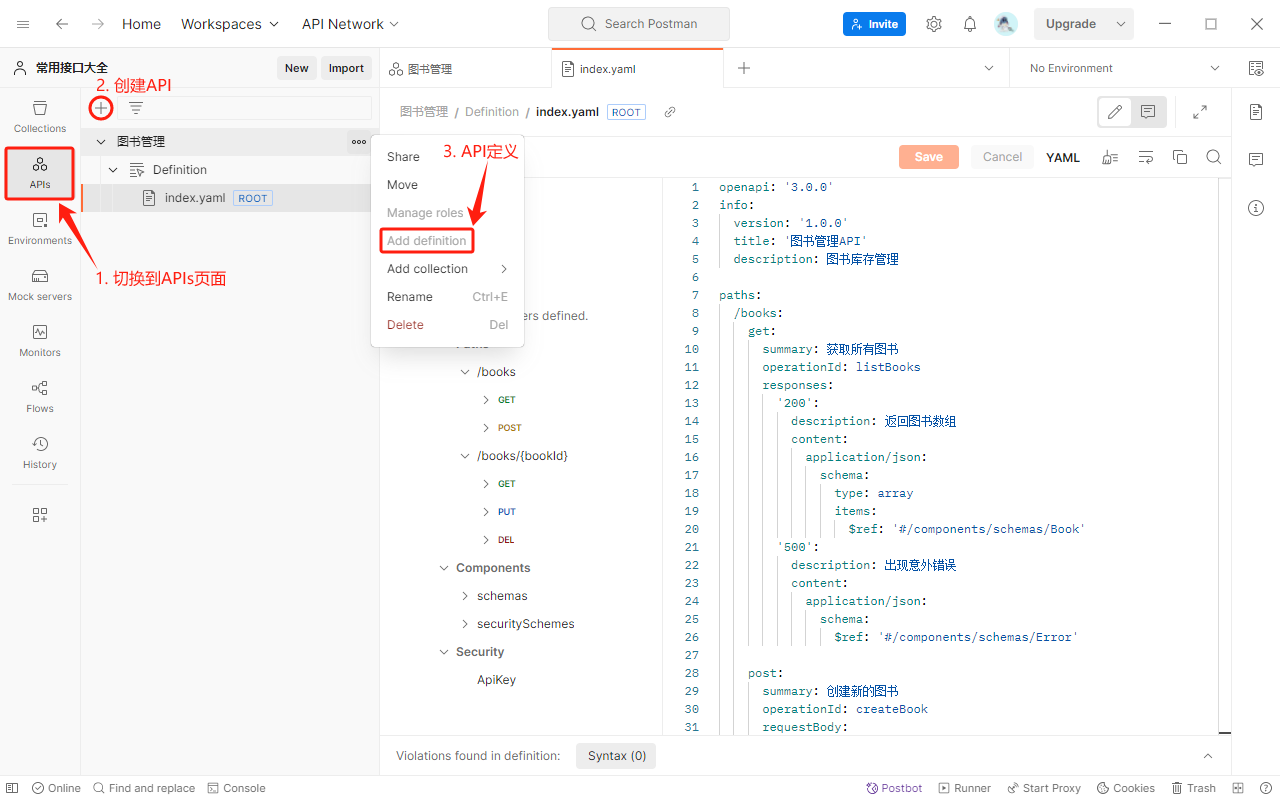
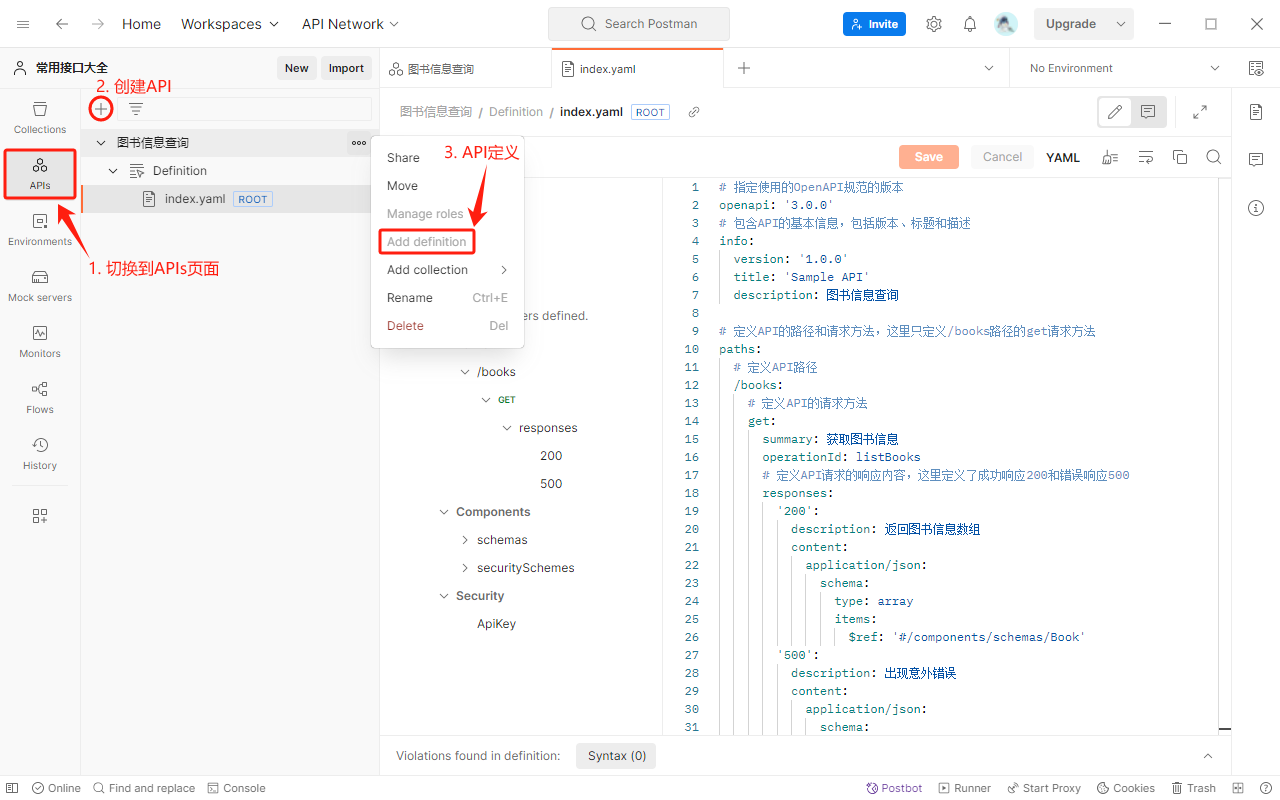
Site updated: 2024-01-16 00:08:46

diff --git a/2022/07/21/ce-shi-gong-ju/tt04-postman/index.html b/2022/07/21/ce-shi-gong-ju/tt04-postman/index.html
@@ -27,7 +27,7 @@
 <meta property="og:locale" content="zh_CN">
 <meta property="og:image" content="https://stitch-top.github.io/img/ThemeMap/1254263210.jpg">
 <meta property="article:published_time" content="2022-07-21T13:50:23.000Z">
-<meta property="article:modified_time" content="2024-01-03T16:23:57.921Z">
+<meta property="article:modified_time" content="2024-01-15T15:28:21.260Z">
 <meta property="article:author" content="Dr.626">
 <meta property="article:tag" content="Postman">
 <meta property="article:tag" content="Chrome扩展">
@@ -248,7 +248,7 @@
       <span class="post-meta mr-2">
         <i class="iconfont icon-chart"></i>
         
-          11k 字
+          8.9k 字
         
       </span>
     
@@ -259,7 +259,7 @@
         
         
         
-          93 分钟
+          75 分钟
         
       </span>
     
@@ -551,7 +551,7 @@
 <li>Mock服务不是一个真实的服务，而是一个被伪装成真实服务的假服务。</li>
 </ul>
 </li>
-<li>Postman可以创建两种类型的Mock服务<ul>
+<li>Mock服务的两种类型<ul>
 <li>私有Mock<ul>
 <li>头像&gt;Settings&gt;API keys&gt;Generate API Key&gt;命名为<code>x-api-key</code>&gt;复制生成的密钥。</li>
 <li>在Postman的Mock servers中，创建Mock服务，配置中勾选<u>Make mock server private</u>。</li>
@@ -585,32 +585,31 @@
 </ul>
 </li>
 </ul>
-<p><img src="/../img/Postman/Postman@014.jpg" srcset="/img/load.gif" lazyload alt="设计开发API"></p>
-<h2 id="6-1-定义API"><a href="#6-1-定义API" class="headerlink" title="6-1 定义API"></a>6-1 定义API</h2><figure class="highlight yaml"><table><tr><td class="gutter"><pre><span class="line">1</span><br><span class="line">2</span><br><span class="line">3</span><br><span class="line">4</span><br><span class="line">5</span><br><span class="line">6</span><br><span class="line">7</span><br><span class="line">8</span><br><span class="line">9</span><br><span class="line">10</span><br><span class="line">11</span><br><span class="line">12</span><br><span class="line">13</span><br><span class="line">14</span><br><span class="line">15</span><br><span class="line">16</span><br><span class="line">17</span><br><span class="line">18</span><br><span class="line">19</span><br><span class="line">20</span><br><span class="line">21</span><br><span class="line">22</span><br><span class="line">23</span><br><span class="line">24</span><br><span class="line">25</span><br><span class="line">26</span><br><span class="line">27</span><br><span class="line">28</span><br><span class="line">29</span><br><span class="line">30</span><br><span class="line">31</span><br><span class="line">32</span><br><span class="line">33</span><br><span class="line">34</span><br><span class="line">35</span><br><span class="line">36</span><br><span class="line">37</span><br><span class="line">38</span><br><span class="line">39</span><br><span class="line">40</span><br><span class="line">41</span><br><span class="line">42</span><br><span class="line">43</span><br><span class="line">44</span><br><span class="line">45</span><br><span class="line">46</span><br><span class="line">47</span><br><span class="line">48</span><br><span class="line">49</span><br><span class="line">50</span><br><span class="line">51</span><br><span class="line">52</span><br><span class="line">53</span><br><span class="line">54</span><br><span class="line">55</span><br><span class="line">56</span><br><span class="line">57</span><br><span class="line">58</span><br><span class="line">59</span><br><span class="line">60</span><br><span class="line">61</span><br><span class="line">62</span><br><span class="line">63</span><br><span class="line">64</span><br><span class="line">65</span><br><span class="line">66</span><br><span class="line">67</span><br><span class="line">68</span><br><span class="line">69</span><br><span class="line">70</span><br><span class="line">71</span><br><span class="line">72</span><br><span class="line">73</span><br><span class="line">74</span><br><span class="line">75</span><br><span class="line">76</span><br><span class="line">77</span><br><span class="line">78</span><br><span class="line">79</span><br><span class="line">80</span><br><span class="line">81</span><br><span class="line">82</span><br><span class="line">83</span><br><span class="line">84</span><br><span class="line">85</span><br><span class="line">86</span><br><span class="line">87</span><br><span class="line">88</span><br><span class="line">89</span><br><span class="line">90</span><br><span class="line">91</span><br><span class="line">92</span><br><span class="line">93</span><br><span class="line">94</span><br><span class="line">95</span><br><span class="line">96</span><br><span class="line">97</span><br><span class="line">98</span><br><span class="line">99</span><br><span class="line">100</span><br><span class="line">101</span><br><span class="line">102</span><br><span class="line">103</span><br><span class="line">104</span><br><span class="line">105</span><br><span class="line">106</span><br><span class="line">107</span><br><span class="line">108</span><br><span class="line">109</span><br><span class="line">110</span><br><span class="line">111</span><br><span class="line">112</span><br><span class="line">113</span><br><span class="line">114</span><br><span class="line">115</span><br><span class="line">116</span><br><span class="line">117</span><br><span class="line">118</span><br><span class="line">119</span><br><span class="line">120</span><br><span class="line">121</span><br><span class="line">122</span><br><span class="line">123</span><br><span class="line">124</span><br><span class="line">125</span><br><span class="line">126</span><br><span class="line">127</span><br><span class="line">128</span><br><span class="line">129</span><br><span class="line">130</span><br><span class="line">131</span><br><span class="line">132</span><br><span class="line">133</span><br><span class="line">134</span><br><span class="line">135</span><br><span class="line">136</span><br><span class="line">137</span><br><span class="line">138</span><br><span class="line">139</span><br><span class="line">140</span><br><span class="line">141</span><br><span class="line">142</span><br><span class="line">143</span><br><span class="line">144</span><br><span class="line">145</span><br><span class="line">146</span><br><span class="line">147</span><br><span class="line">148</span><br><span class="line">149</span><br><span class="line">150</span><br><span class="line">151</span><br><span class="line">152</span><br><span class="line">153</span><br><span class="line">154</span><br><span class="line">155</span><br><span class="line">156</span><br><span class="line">157</span><br><span class="line">158</span><br><span class="line">159</span><br><span class="line">160</span><br><span class="line">161</span><br><span class="line">162</span><br><span class="line">163</span><br><span class="line">164</span><br><span class="line">165</span><br><span class="line">166</span><br><span class="line">167</span><br><span class="line">168</span><br><span class="line">169</span><br><span class="line">170</span><br><span class="line">171</span><br><span class="line">172</span><br><span class="line">173</span><br><span class="line">174</span><br><span class="line">175</span><br><span class="line">176</span><br><span class="line">177</span><br><span class="line">178</span><br><span class="line">179</span><br><span class="line">180</span><br><span class="line">181</span><br><span class="line">182</span><br><span class="line">183</span><br><span class="line">184</span><br><span class="line">185</span><br><span class="line">186</span><br><span class="line">187</span><br><span class="line">188</span><br><span class="line">189</span><br><span class="line">190</span><br><span class="line">191</span><br><span class="line">192</span><br><span class="line">193</span><br><span class="line">194</span><br><span class="line">195</span><br><span class="line">196</span><br><span class="line">197</span><br><span class="line">198</span><br><span class="line">199</span><br><span class="line">200</span><br><span class="line">201</span><br><span class="line">202</span><br><span class="line">203</span><br><span class="line">204</span><br><span class="line">205</span><br><span class="line">206</span><br><span class="line">207</span><br><span class="line">208</span><br><span class="line">209</span><br><span class="line">210</span><br><span class="line">211</span><br><span class="line">212</span><br><span class="line">213</span><br><span class="line">214</span><br><span class="line">215</span><br><span class="line">216</span><br><span class="line">217</span><br><span class="line">218</span><br><span class="line">219</span><br><span class="line">220</span><br></pre></td><td class="code"><pre><code class="hljs yaml"><span class="hljs-attr">openapi:</span> <span class="hljs-string">&#x27;3.0.0&#x27;</span><br><span class="hljs-attr">info:</span><br>  <span class="hljs-attr">version:</span> <span class="hljs-string">&#x27;1.0.0&#x27;</span><br>  <span class="hljs-attr">title:</span> <span class="hljs-string">&#x27;图书管理API&#x27;</span><br>  <span class="hljs-attr">description:</span> <span class="hljs-string">图书库存管理</span><br><br><span class="hljs-attr">paths:</span><br>  <span class="hljs-comment"># 定义接口路径</span><br>  <span class="hljs-string">/books:</span><br>    <span class="hljs-comment"># 定义接口的请求方法</span><br>    <span class="hljs-attr">get:</span><br>      <span class="hljs-attr">summary:</span> <span class="hljs-string">获取所有图书</span><br>      <span class="hljs-attr">operationId:</span> <span class="hljs-string">listBooks</span><br>      <span class="hljs-comment"># 定义接口请求的响应内容</span><br>      <span class="hljs-attr">responses:</span><br>        <span class="hljs-attr">&#x27;200&#x27;:</span><br>          <span class="hljs-attr">description:</span> <span class="hljs-string">返回图书数组</span><br>          <span class="hljs-attr">content:</span><br>            <span class="hljs-attr">application/json:</span><br>              <span class="hljs-attr">schema:</span><br>                <span class="hljs-attr">type:</span> <span class="hljs-string">array</span><br>                <span class="hljs-attr">items:</span><br>                  <span class="hljs-string">$ref:</span> <span class="hljs-string">&#x27;#/components/schemas/Book&#x27;</span><br>        <span class="hljs-attr">&#x27;500&#x27;:</span><br>          <span class="hljs-attr">description:</span> <span class="hljs-string">出现意外错误</span><br>          <span class="hljs-attr">content:</span><br>            <span class="hljs-attr">application/json:</span><br>              <span class="hljs-attr">schema:</span><br>                <span class="hljs-string">$ref:</span> <span class="hljs-string">&#x27;#/components/schemas/Error&#x27;</span><br><br>    <span class="hljs-attr">post:</span><br>      <span class="hljs-attr">summary:</span> <span class="hljs-string">创建新的图书</span><br>      <span class="hljs-attr">operationId:</span> <span class="hljs-string">createBook</span><br>      <span class="hljs-attr">requestBody:</span><br>        <span class="hljs-attr">description:</span> <span class="hljs-string">待创建的图书信息</span><br>        <span class="hljs-attr">required:</span> <span class="hljs-literal">true</span><br>        <span class="hljs-attr">content:</span><br>          <span class="hljs-attr">application/json:</span><br>            <span class="hljs-attr">schema:</span><br>              <span class="hljs-string">$ref:</span> <span class="hljs-string">&#x27;#/components/schemas/NewBook&#x27;</span><br>      <span class="hljs-attr">responses:</span><br>        <span class="hljs-attr">&#x27;201&#x27;:</span><br>          <span class="hljs-attr">description:</span> <span class="hljs-string">图书创建成功</span><br>          <span class="hljs-attr">content:</span><br>            <span class="hljs-attr">application/json:</span><br>              <span class="hljs-attr">schema:</span><br>                <span class="hljs-string">$ref:</span> <span class="hljs-string">&#x27;#/components/schemas/Book&#x27;</span><br>        <span class="hljs-attr">&#x27;400&#x27;:</span><br>          <span class="hljs-attr">description:</span> <span class="hljs-string">输入无效</span><br>          <span class="hljs-attr">content:</span><br>            <span class="hljs-attr">application/json:</span><br>              <span class="hljs-attr">schema:</span><br>                <span class="hljs-string">$ref:</span> <span class="hljs-string">&#x27;#/components/schemas/Error&#x27;</span><br>        <span class="hljs-attr">&#x27;500&#x27;:</span><br>          <span class="hljs-attr">description:</span> <span class="hljs-string">出现意外错误</span><br>          <span class="hljs-attr">content:</span><br>            <span class="hljs-attr">application/json:</span><br>              <span class="hljs-attr">schema:</span><br>                <span class="hljs-string">$ref:</span> <span class="hljs-string">&#x27;#/components/schemas/Error&#x27;</span><br><br>  <span class="hljs-string">/books/&#123;bookId&#125;:</span><br>    <span class="hljs-attr">parameters:</span><br>      <span class="hljs-bullet">-</span> <span class="hljs-attr">name:</span> <span class="hljs-string">bookId</span><br>        <span class="hljs-attr">in:</span> <span class="hljs-string">path</span><br>        <span class="hljs-attr">required:</span> <span class="hljs-literal">true</span><br>        <span class="hljs-attr">description:</span> <span class="hljs-string">图书的唯一标识符</span><br>        <span class="hljs-attr">schema:</span><br>          <span class="hljs-attr">type:</span> <span class="hljs-string">string</span><br><br>    <span class="hljs-attr">get:</span><br>      <span class="hljs-attr">summary:</span> <span class="hljs-string">根据ID获取图书详情</span><br>      <span class="hljs-attr">operationId:</span> <span class="hljs-string">readBook</span><br>      <span class="hljs-attr">responses:</span><br>        <span class="hljs-attr">&#x27;200&#x27;:</span><br>          <span class="hljs-attr">description:</span> <span class="hljs-string">返回图书详情</span><br>          <span class="hljs-attr">content:</span><br>            <span class="hljs-attr">application/json:</span><br>              <span class="hljs-attr">schema:</span><br>                <span class="hljs-string">$ref:</span> <span class="hljs-string">&#x27;#/components/schemas/Book&#x27;</span><br>        <span class="hljs-attr">&#x27;404&#x27;:</span><br>          <span class="hljs-attr">description:</span> <span class="hljs-string">未找到图书</span><br>          <span class="hljs-attr">content:</span><br>            <span class="hljs-attr">application/json:</span><br>              <span class="hljs-attr">schema:</span><br>                <span class="hljs-string">$ref:</span> <span class="hljs-string">&#x27;#/components/schemas/Error&#x27;</span><br>        <span class="hljs-attr">&#x27;500&#x27;:</span><br>          <span class="hljs-attr">description:</span> <span class="hljs-string">出现意外错误</span><br>          <span class="hljs-attr">content:</span><br>            <span class="hljs-attr">application/json:</span><br>              <span class="hljs-attr">schema:</span><br>                <span class="hljs-string">$ref:</span> <span class="hljs-string">&#x27;#/components/schemas/Error&#x27;</span><br><br>    <span class="hljs-attr">put:</span><br>      <span class="hljs-attr">summary:</span> <span class="hljs-string">根据ID更新图书信息</span><br>      <span class="hljs-attr">operationId:</span> <span class="hljs-string">updateBook</span><br>      <span class="hljs-attr">requestBody:</span><br>        <span class="hljs-attr">description:</span> <span class="hljs-string">更新后的图书信息</span><br>        <span class="hljs-attr">required:</span> <span class="hljs-literal">true</span><br>        <span class="hljs-attr">content:</span><br>          <span class="hljs-attr">application/json:</span><br>            <span class="hljs-attr">schema:</span><br>              <span class="hljs-string">$ref:</span> <span class="hljs-string">&#x27;#/components/schemas/NewBook&#x27;</span><br>      <span class="hljs-attr">responses:</span><br>        <span class="hljs-attr">&#x27;200&#x27;:</span><br>          <span class="hljs-attr">description:</span> <span class="hljs-string">图书信息更新成功</span><br>          <span class="hljs-attr">content:</span><br>            <span class="hljs-attr">application/json:</span><br>              <span class="hljs-attr">schema:</span><br>                <span class="hljs-string">$ref:</span> <span class="hljs-string">&#x27;#/components/schemas/Book&#x27;</span><br>        <span class="hljs-attr">&#x27;400&#x27;:</span><br>          <span class="hljs-attr">description:</span> <span class="hljs-string">输入无效</span><br>          <span class="hljs-attr">content:</span><br>            <span class="hljs-attr">application/json:</span><br>              <span class="hljs-attr">schema:</span><br>                <span class="hljs-string">$ref:</span> <span class="hljs-string">&#x27;#/components/schemas/Error&#x27;</span><br>        <span class="hljs-attr">&#x27;404&#x27;:</span><br>          <span class="hljs-attr">description:</span> <span class="hljs-string">未找到图书</span><br>          <span class="hljs-attr">content:</span><br>            <span class="hljs-attr">application/json:</span><br>              <span class="hljs-attr">schema:</span><br>                <span class="hljs-string">$ref:</span> <span class="hljs-string">&#x27;#/components/schemas/Error&#x27;</span><br>        <span class="hljs-attr">&#x27;500&#x27;:</span><br>          <span class="hljs-attr">description:</span> <span class="hljs-string">出现意外错误</span><br>          <span class="hljs-attr">content:</span><br>            <span class="hljs-attr">application/json:</span><br>              <span class="hljs-attr">schema:</span><br>                <span class="hljs-string">$ref:</span> <span class="hljs-string">&#x27;#/components/schemas/Error&#x27;</span><br>    <br>    <span class="hljs-attr">delete:</span><br>      <span class="hljs-attr">summary:</span> <span class="hljs-string">根据ID删除图书</span><br>      <span class="hljs-attr">operationId:</span> <span class="hljs-string">deleteBook</span><br>      <span class="hljs-attr">responses:</span><br>        <span class="hljs-attr">&#x27;204&#x27;:</span><br>          <span class="hljs-attr">description:</span> <span class="hljs-string">图书删除成功</span><br>        <span class="hljs-attr">&#x27;404&#x27;:</span><br>          <span class="hljs-attr">description:</span> <span class="hljs-string">未找到图书</span><br>          <span class="hljs-attr">content:</span><br>            <span class="hljs-attr">application/json:</span><br>              <span class="hljs-attr">schema:</span><br>                <span class="hljs-string">$ref:</span> <span class="hljs-string">&#x27;#/components/schemas/Error&#x27;</span><br>        <span class="hljs-attr">&#x27;500&#x27;:</span><br>          <span class="hljs-attr">description:</span> <span class="hljs-string">出现意外错误</span><br>          <span class="hljs-attr">content:</span><br>            <span class="hljs-attr">application/json:</span><br>              <span class="hljs-attr">schema:</span><br>                <span class="hljs-string">$ref:</span> <span class="hljs-string">&#x27;#/components/schemas/Error&#x27;</span><br><br><span class="hljs-attr">components:</span><br>  <span class="hljs-attr">schemas:</span><br>    <span class="hljs-attr">Book:</span><br>      <span class="hljs-comment"># 数据模型的类型</span><br>      <span class="hljs-attr">type:</span> <span class="hljs-string">object</span><br>      <span class="hljs-comment"># 指定数据模型中的必填属性</span><br>      <span class="hljs-attr">required:</span><br>        <span class="hljs-bullet">-</span> <span class="hljs-string">id</span><br>        <span class="hljs-bullet">-</span> <span class="hljs-string">title</span><br>        <span class="hljs-bullet">-</span> <span class="hljs-string">author</span><br>        <span class="hljs-bullet">-</span> <span class="hljs-string">isbn</span><br>        <span class="hljs-bullet">-</span> <span class="hljs-string">price</span><br>      <span class="hljs-comment"># 定义数据模型中的属性</span><br>      <span class="hljs-attr">properties:</span><br>        <span class="hljs-attr">id:</span><br>          <span class="hljs-comment"># 指定属性的数据类型</span><br>          <span class="hljs-attr">type:</span> <span class="hljs-string">string</span><br>          <span class="hljs-comment"># 提供属性的描述信息</span><br>          <span class="hljs-attr">description:</span> <span class="hljs-string">图书的唯一标识符</span><br>        <span class="hljs-attr">title:</span><br>          <span class="hljs-attr">type:</span> <span class="hljs-string">string</span><br>          <span class="hljs-attr">description:</span> <span class="hljs-string">图书标题</span><br>        <span class="hljs-attr">author:</span><br>          <span class="hljs-attr">type:</span> <span class="hljs-string">string</span><br>          <span class="hljs-attr">description:</span> <span class="hljs-string">图书作者</span><br>        <span class="hljs-attr">isbn:</span><br>          <span class="hljs-attr">type:</span> <span class="hljs-string">string</span><br>          <span class="hljs-attr">description:</span> <span class="hljs-string">图书ISBN</span><br>        <span class="hljs-attr">price:</span><br>          <span class="hljs-attr">type:</span> <span class="hljs-string">number</span><br>          <span class="hljs-attr">format:</span> <span class="hljs-string">float</span><br>          <span class="hljs-attr">description:</span> <span class="hljs-string">图书价格</span><br>        <span class="hljs-attr">description:</span><br>          <span class="hljs-attr">type:</span> <span class="hljs-string">string</span><br>          <span class="hljs-attr">description:</span> <span class="hljs-string">图书简介</span><br>          <br>    <span class="hljs-attr">NewBook:</span><br>      <span class="hljs-attr">type:</span> <span class="hljs-string">object</span><br>      <span class="hljs-attr">required:</span><br>        <span class="hljs-bullet">-</span> <span class="hljs-string">title</span><br>        <span class="hljs-bullet">-</span> <span class="hljs-string">author</span><br>        <span class="hljs-bullet">-</span> <span class="hljs-string">isbn</span><br>        <span class="hljs-bullet">-</span> <span class="hljs-string">price</span><br>      <span class="hljs-attr">properties:</span><br>        <span class="hljs-attr">title:</span><br>          <span class="hljs-attr">type:</span> <span class="hljs-string">string</span><br>        <span class="hljs-attr">author:</span><br>          <span class="hljs-attr">type:</span> <span class="hljs-string">string</span><br>        <span class="hljs-attr">isbn:</span><br>          <span class="hljs-attr">type:</span> <span class="hljs-string">string</span><br>        <span class="hljs-attr">price:</span><br>          <span class="hljs-attr">type:</span> <span class="hljs-string">number</span><br>          <span class="hljs-attr">format:</span> <span class="hljs-string">float</span><br>        <span class="hljs-attr">description:</span><br>          <span class="hljs-attr">type:</span> <span class="hljs-string">string</span><br><br>    <span class="hljs-attr">Error:</span><br>      <span class="hljs-attr">type:</span> <span class="hljs-string">object</span><br>      <span class="hljs-attr">required:</span><br>        <span class="hljs-bullet">-</span> <span class="hljs-string">message</span><br>      <span class="hljs-attr">properties:</span><br>        <span class="hljs-attr">message:</span><br>          <span class="hljs-attr">type:</span> <span class="hljs-string">string</span><br>          <span class="hljs-attr">description:</span> <span class="hljs-string">可读的错误信息</span><br><br>  <span class="hljs-attr">securitySchemes:</span><br>    <span class="hljs-attr">ApiKey:</span><br>      <span class="hljs-attr">type:</span> <span class="hljs-string">apiKey</span><br>      <span class="hljs-attr">in:</span> <span class="hljs-string">header</span><br>      <span class="hljs-attr">name:</span> <span class="hljs-string">X-Api-Key</span><br><br><span class="hljs-attr">security:</span><br>  <span class="hljs-bullet">-</span> <span class="hljs-attr">ApiKey:</span> []<br></code></pre></td></tr></table></figure>
+<h2 id="6-1-创建API"><a href="#6-1-创建API" class="headerlink" title="6-1 创建API"></a>6-1 创建API</h2><p><img src="/../img/Postman/Postman@014.jpg" srcset="/img/load.gif" lazyload alt="设计开发API-创建API"></p>
+<h2 id="6-2-定义API"><a href="#6-2-定义API" class="headerlink" title="6-2 定义API"></a>6-2 定义API</h2><figure class="highlight yaml"><table><tr><td class="gutter"><pre><span class="line">1</span><br><span class="line">2</span><br><span class="line">3</span><br><span class="line">4</span><br><span class="line">5</span><br><span class="line">6</span><br><span class="line">7</span><br><span class="line">8</span><br><span class="line">9</span><br><span class="line">10</span><br><span class="line">11</span><br><span class="line">12</span><br><span class="line">13</span><br><span class="line">14</span><br><span class="line">15</span><br><span class="line">16</span><br><span class="line">17</span><br><span class="line">18</span><br><span class="line">19</span><br><span class="line">20</span><br><span class="line">21</span><br><span class="line">22</span><br><span class="line">23</span><br><span class="line">24</span><br><span class="line">25</span><br><span class="line">26</span><br><span class="line">27</span><br><span class="line">28</span><br><span class="line">29</span><br><span class="line">30</span><br><span class="line">31</span><br><span class="line">32</span><br><span class="line">33</span><br><span class="line">34</span><br><span class="line">35</span><br><span class="line">36</span><br><span class="line">37</span><br><span class="line">38</span><br><span class="line">39</span><br><span class="line">40</span><br><span class="line">41</span><br><span class="line">42</span><br><span class="line">43</span><br><span class="line">44</span><br><span class="line">45</span><br><span class="line">46</span><br><span class="line">47</span><br><span class="line">48</span><br><span class="line">49</span><br><span class="line">50</span><br><span class="line">51</span><br><span class="line">52</span><br><span class="line">53</span><br><span class="line">54</span><br><span class="line">55</span><br><span class="line">56</span><br><span class="line">57</span><br><span class="line">58</span><br><span class="line">59</span><br><span class="line">60</span><br><span class="line">61</span><br><span class="line">62</span><br><span class="line">63</span><br><span class="line">64</span><br><span class="line">65</span><br><span class="line">66</span><br><span class="line">67</span><br><span class="line">68</span><br><span class="line">69</span><br><span class="line">70</span><br><span class="line">71</span><br><span class="line">72</span><br><span class="line">73</span><br><span class="line">74</span><br><span class="line">75</span><br><span class="line">76</span><br><span class="line">77</span><br><span class="line">78</span><br><span class="line">79</span><br><span class="line">80</span><br><span class="line">81</span><br><span class="line">82</span><br><span class="line">83</span><br><span class="line">84</span><br><span class="line">85</span><br><span class="line">86</span><br><span class="line">87</span><br></pre></td><td class="code"><pre><code class="hljs yaml"><span class="hljs-comment"># 指定使用的OpenAPI规范的版本</span><br><span class="hljs-attr">openapi:</span> <span class="hljs-string">&#x27;3.0.0&#x27;</span><br><span class="hljs-comment"># 包含API的基本信息，包括版本、标题和描述</span><br><span class="hljs-attr">info:</span><br>  <span class="hljs-attr">version:</span> <span class="hljs-string">&#x27;1.0.0&#x27;</span><br>  <span class="hljs-attr">title:</span> <span class="hljs-string">&#x27;Sample API&#x27;</span><br>  <span class="hljs-attr">description:</span> <span class="hljs-string">图书信息查询</span><br><br><span class="hljs-comment"># 定义API的路径和请求方法，这里只定义/books路径的get请求方法</span><br><span class="hljs-attr">paths:</span><br>  <span class="hljs-comment"># 定义API路径</span><br>  <span class="hljs-string">/books:</span><br>    <span class="hljs-comment"># 定义API的请求方法</span><br>    <span class="hljs-attr">get:</span><br>      <span class="hljs-attr">summary:</span> <span class="hljs-string">获取图书信息</span><br>      <span class="hljs-attr">operationId:</span> <span class="hljs-string">listBooks</span><br>      <span class="hljs-comment"># 定义API请求的响应内容，这里定义了成功响应200和错误响应500</span><br>      <span class="hljs-attr">responses:</span><br>        <span class="hljs-attr">&#x27;200&#x27;:</span><br>          <span class="hljs-attr">description:</span> <span class="hljs-string">返回图书信息数组</span><br>          <span class="hljs-attr">content:</span><br>            <span class="hljs-attr">application/json:</span><br>              <span class="hljs-attr">schema:</span><br>                <span class="hljs-attr">type:</span> <span class="hljs-string">array</span><br>                <span class="hljs-attr">items:</span><br>                  <span class="hljs-string">$ref:</span> <span class="hljs-string">&#x27;#/components/schemas/Book&#x27;</span><br>        <span class="hljs-attr">&#x27;500&#x27;:</span><br>          <span class="hljs-attr">description:</span> <span class="hljs-string">出现意外错误</span><br>          <span class="hljs-attr">content:</span><br>            <span class="hljs-attr">application/json:</span><br>              <span class="hljs-attr">schema:</span><br>                <span class="hljs-string">$ref:</span> <span class="hljs-string">&#x27;#/components/schemas/Error&#x27;</span><br><br><span class="hljs-comment"># 包含API的组件，包括数据模型Book和Error的定义</span><br><span class="hljs-attr">components:</span><br>  <span class="hljs-attr">schemas:</span><br>    <span class="hljs-attr">Book:</span><br>      <span class="hljs-comment"># 数据模型的类型</span><br>      <span class="hljs-attr">type:</span> <span class="hljs-string">object</span><br>      <span class="hljs-comment"># 指定数据模型中的必填属性</span><br>      <span class="hljs-attr">required:</span><br>        <span class="hljs-bullet">-</span> <span class="hljs-string">id</span><br>        <span class="hljs-bullet">-</span> <span class="hljs-string">title</span><br>        <span class="hljs-bullet">-</span> <span class="hljs-string">author</span><br>        <span class="hljs-bullet">-</span> <span class="hljs-string">isbn</span><br>        <span class="hljs-bullet">-</span> <span class="hljs-string">price</span><br>      <span class="hljs-comment"># 定义数据模型中的属性</span><br>      <span class="hljs-attr">properties:</span><br>        <span class="hljs-attr">id:</span><br>          <span class="hljs-comment"># 指定属性的数据类型</span><br>          <span class="hljs-attr">type:</span> <span class="hljs-string">string</span><br>          <span class="hljs-comment"># 提供属性的描述信息</span><br>          <span class="hljs-attr">description:</span> <span class="hljs-string">图书的唯一标识符</span><br>        <span class="hljs-attr">title:</span><br>          <span class="hljs-attr">type:</span> <span class="hljs-string">string</span><br>          <span class="hljs-attr">description:</span> <span class="hljs-string">图书标题</span><br>        <span class="hljs-attr">author:</span><br>          <span class="hljs-attr">type:</span> <span class="hljs-string">string</span><br>          <span class="hljs-attr">description:</span> <span class="hljs-string">图书作者</span><br>        <span class="hljs-attr">isbn:</span><br>          <span class="hljs-attr">type:</span> <span class="hljs-string">string</span><br>          <span class="hljs-attr">description:</span> <span class="hljs-string">图书ISBN</span><br>        <span class="hljs-attr">price:</span><br>          <span class="hljs-attr">type:</span> <span class="hljs-string">number</span><br>          <span class="hljs-attr">format:</span> <span class="hljs-string">float</span><br>          <span class="hljs-attr">description:</span> <span class="hljs-string">图书价格</span><br>        <span class="hljs-attr">description:</span><br>          <span class="hljs-attr">type:</span> <span class="hljs-string">string</span><br>          <span class="hljs-attr">description:</span> <span class="hljs-string">图书简介</span><br>    <span class="hljs-attr">Error:</span><br>      <span class="hljs-attr">type:</span> <span class="hljs-string">object</span><br>      <span class="hljs-attr">required:</span><br>        <span class="hljs-bullet">-</span> <span class="hljs-string">message</span><br>      <span class="hljs-attr">properties:</span><br>        <span class="hljs-attr">message:</span><br>          <span class="hljs-attr">description:</span> <span class="hljs-string">A</span> <span class="hljs-string">human</span> <span class="hljs-string">readable</span> <span class="hljs-string">error</span> <span class="hljs-string">message</span><br>          <span class="hljs-attr">type:</span> <span class="hljs-string">string</span><br>  <span class="hljs-comment"># 定义API的安全方案，包括一个名为ApiKey的API密钥认证方式</span><br>  <span class="hljs-attr">securitySchemes:</span><br>    <span class="hljs-attr">ApiKey:</span><br>      <span class="hljs-attr">type:</span> <span class="hljs-string">apiKey</span><br>      <span class="hljs-attr">in:</span> <span class="hljs-string">header</span><br>      <span class="hljs-attr">name:</span> <span class="hljs-string">X-Api-Key</span><br><br><span class="hljs-comment"># 定义API的安全要求，指定使用ApiKey认证方式</span><br><span class="hljs-attr">security:</span><br>  <span class="hljs-bullet">-</span> <span class="hljs-attr">ApiKey:</span> []<br></code></pre></td></tr></table></figure>
 
 
 
-<h2 id="6-2-API文档"><a href="#6-2-API文档" class="headerlink" title="6-2 API文档"></a>6-2 API文档</h2><p><img src="/../img/Postman/Postman@015.jpg" srcset="/img/load.gif" lazyload alt="设计开发API-API文档"></p>
 <h2 id="6-3-测试API"><a href="#6-3-测试API" class="headerlink" title="6-3 测试API"></a>6-3 测试API</h2><ul>
 <li>测试API<ul>
-<li>由于定义好的API没有设置baseUrl，测试集合无法直接执行。</li>
-<li>Postman直接生成定义好的API Flask代码，下载到本地运行。<ul>
-<li>解压zip后，将yourCompany目录名改为books，在当前目录下打开命令窗口。</li>
-<li>在解压zip的目录下，执行环境依赖：<code>pip install -r requirements.txt</code>。</li>
-<li>设置环境变量FLASK_APP，程序主模块名books：<code>set FLASK_APP=books </code>。</li>
+<li>由于定义好的API没有设置baseUrl，测试集合没办法直接执行。</li>
+<li>Postman可以直接生成定义好的Flask等代码，下载到本地运行。<ul>
+<li>解压zip后将yourCompany目录名改为books，在当前目录下打开命令窗口。</li>
+<li>在解压zip的目录下执行环境依赖：<code>pip install -r requirements.txt</code>。</li>
+<li>设置环境变量FLASK_APP，程序主模块名books：<code>set FLASK_APP=books</code>。</li>
 <li>设置环境变量FLASK_ENV，默认production：<code>set FLASK_ENV=development</code>。</li>
 </ul>
 </li>
-<li>命令窗口执行<code>flask run</code>，浏览器打开地址验证：<a href="127.0.0.1:5000/books">127.0.0.1:5000&#x2F;books</a>。<ul>
-<li>访问成功后，进行本地Mock，将Postman中的baseUrl设为<a href="127.0.0.1:5000">127.0.0.1:5000</a>。</li>
-<li>由Postman生成的API Flask只有接口相关的代码，没有后台数据库对应操作。</li>
-<li>如果测试集合要完全呈现接口功能，需将生成的Flask代码改写优化，再Mock。</li>
+<li>命令窗口执行<code>flask run</code>，浏览器打开地址验证：<a target="_blank" rel="noopener" href="http://127.0.0.1:5000/books">http://127.0.0.1:5000/books</a>。<ul>
+<li>访问成功后，进行本地Mock，将Postman中的baseUrl设置为127.0.0.1:5000。</li>
+<li>由Postman生成的API Flask代码只有接口相关内容，没有后台数据对应的存储。</li>
+<li>若测试集合要完全呈现接口功能，需要将生成的API Flask代码改写优化再Mock。</li>
 </ul>
 </li>
 </ul>
 </li>
 </ul>
-<p><img src="/../img/Postman/Postman@016.jpg" srcset="/img/load.gif" lazyload alt="设计开发API-测试API"></p>
+<p><img src="/../img/Postman/Postman@015.jpg" srcset="/img/load.gif" lazyload alt="设计开发API-测试API"></p>
 
               
             </div>
